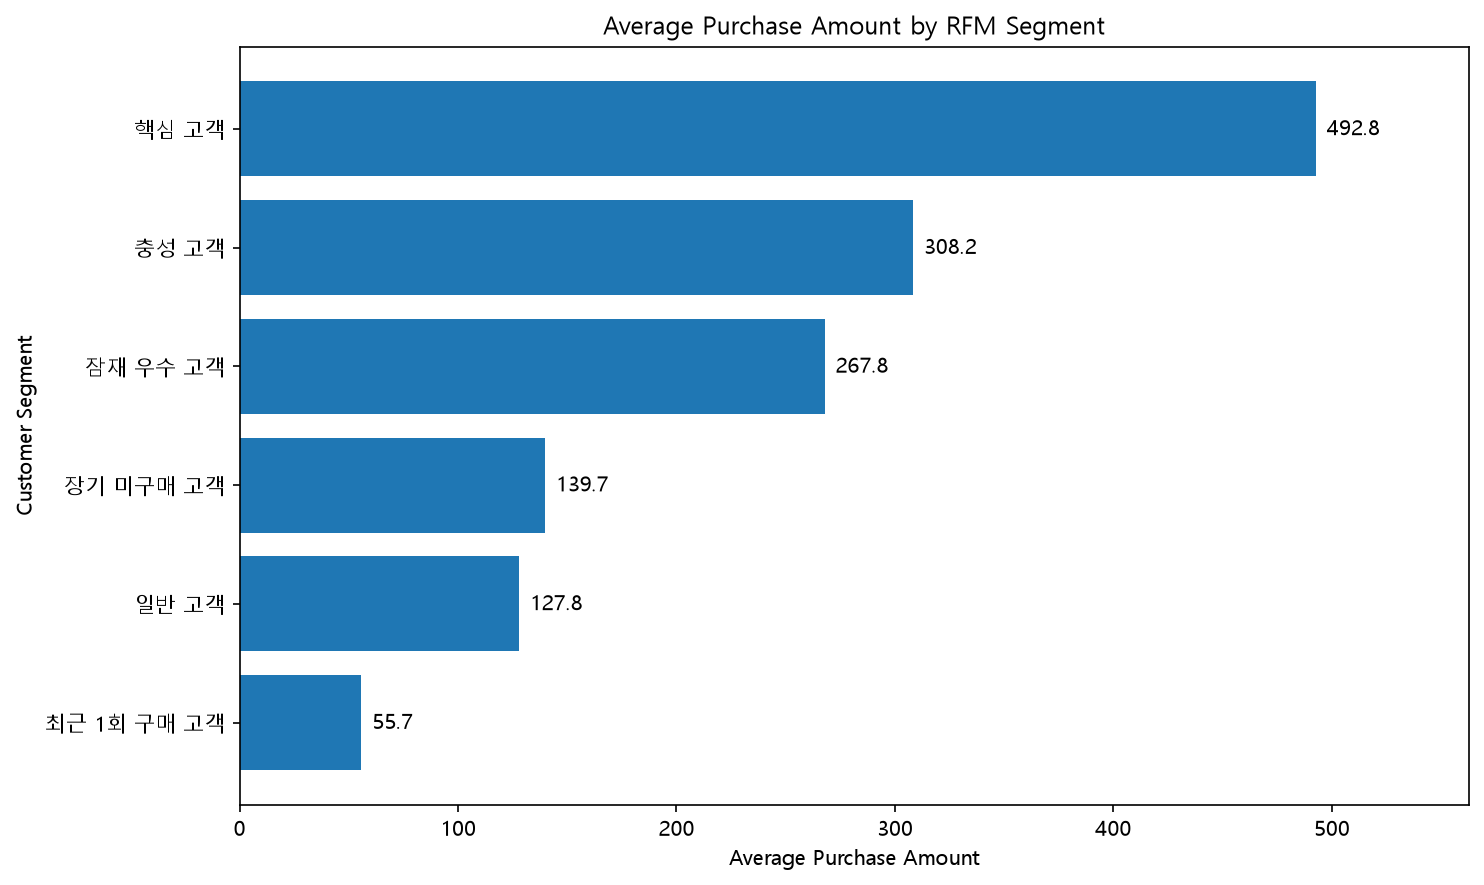
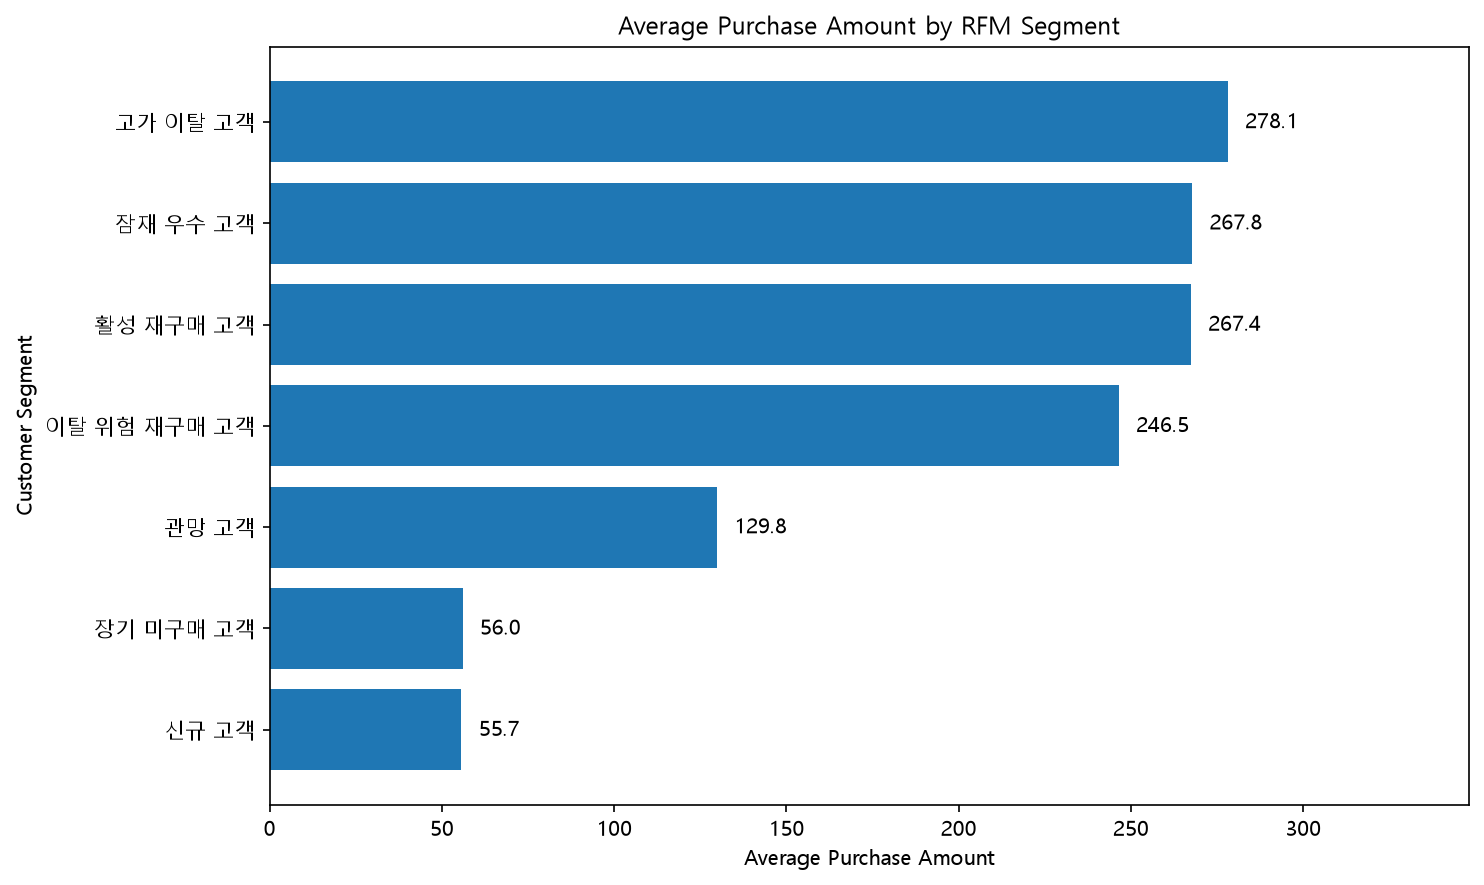
refactor: 변경된 RFM 세그먼트 기준으로 시각화 갱신

diff --git a/python/08_rfm_visualization.py b/python/08_rfm_visualization.py
@@ -76,11 +76,12 @@ segment_summary["monetary_ratio"] = (
 
 segment_order = [
     "장기 미구매 고객",
-    "최근 1회 구매 고객",
-    "일반 고객",
+    "신규 고객",
+    "관망 고객",
+    "이탈 위험 재구매 고객",
+    "고가 이탈 고객",
     "잠재 우수 고객",
-    "충성 고객",
-    "핵심 고객",
+    "활성 재구매 고객",
 ]
 
 
